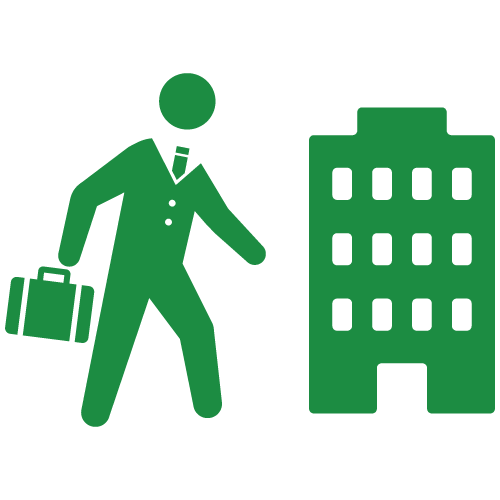
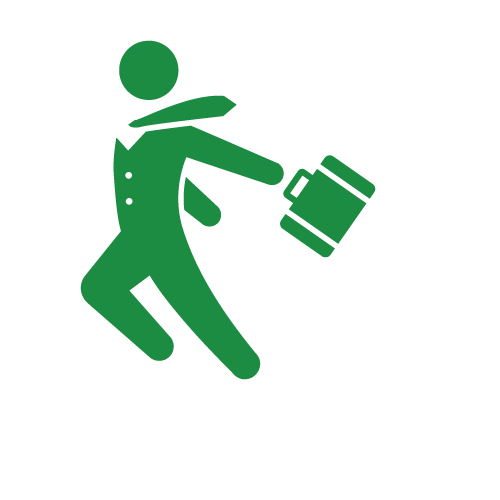
不要画像削除

diff --git a/index.html b/index.html
@@ -200,7 +200,7 @@ $(function(){
 		</div>
 		<div class="col-sm-12">
 			<div class="col-xs-4">
-				<img src="image/human2.png" class="fadeIn questionImg img-responsive">
+				<img src="image/question_human.png" class="fadeIn questionImg img-responsive">
 			</div>
 			<div class="col-xs-8">
 				<ul class="checkList text-left">
@@ -536,7 +536,7 @@ $(function(){
         <div class="stepSpaceTitle">
           <span>STEP6</span><br>
           参画<br>
-          <img src="image/step6_3.png" width="100px" height="100px">
+          <img src="image/step6.png" width="100px" height="100px">
         </div>
         <div class="stepSpaceDesc">
           当日もコンサルタントが必ず同行！
@@ -569,7 +569,7 @@ $(function(){
 		<div class="col-sm-6">
 			<div class="fadeIn tantoSection consultant1">
         <h6 style="padding-bottom:10px;border-bottom:1px solid #FFF;font-size:18pt;">橋本　有梨香　<span style="font-size:14pt;color:#a5a8fe;">- A.HASHIMOTO -</span></h6>
-				<img src="image/S__15974429.jpg" width="100%" height="300px">
+				<img src="/image/consal_01.jpg" width="100%" height="300px">
         <!-- 20170908 コメント画像に変更
         <div class="consulComent2 hide" style="font-size:0.7em;color:#98969A;background-color:#FFF;height:180px;margin-top:80px;margin-bottom:100px;padding:10px;border:1px solid #00ADE4;border-radius:5px;box-shadow: 5px 5px 10px black;">
           ITキャリアのスタートはエンジニア！その後営業職にキャリアチェンジし早2年。<br>
@@ -585,7 +585,7 @@ $(function(){
 		<div class="col-sm-6" style="margin-bottom:50px;">
       <div class="fadeIn tantoSection consultant2">
         <h6 style="padding-bottom:10px;border-bottom:1px solid #FFF;font-size:18pt;">大小田　敏志　<span style="font-size:14pt;color:#a5a8fe;">- S.OHKODA -</span></h6>
-        <img src="image/S__15974430.jpg" width="100%" height="300px">
+        <img src="image/consal_02.jpg" width="100%" height="300px">
         <!-- 20170908 コメント画像に変更
         <div class="consulComent1 hide" style="color:#98969A;background-color:#FFF;height:180px;margin-top:100px;margin-bottom:100px;padding:10px;border:1px solid #00ADE4;border-radius:5px;box-shadow: 5px 5px 10px black;">
           新卒で入社し既にIT業界歴は5年以上。<br>

diff --git a/style/common.css b/style/common.css
@@ -105,11 +105,11 @@ h5{
 	background-color:#03086A;
 }
 .caseContents{
-  background:url(/image/pexels-photo-51171.jpeg) 60% 0 no-repeat fixed;
+  background:url(/image/background_01.jpeg) 60% 0 no-repeat fixed;
   color: white;
 }
 .voiceContents{
-  background:url(/image/pexels-photo-51171.jpeg) 50% 0 no-repeat fixed;
+  background:url(/image/background_01.jpeg) 50% 0 no-repeat fixed;
   color: white;
 }
 .flowContents{
@@ -253,7 +253,7 @@ h5.voiceName{
 	line-height: 45px;
 	font-size:0.9em;
 	list-style: none;
-	background: url( /image/check2.png ) left no-repeat;
+	background: url( /image/check.png ) left no-repeat;
 	padding: 3px 0px 3px 38px;
 	/* 文字が真ん中に位置するように padding で上下の間隔を調整する。*/
 	/* 38pxの部分に「画像File」の横幅に隙間分のpxを足した数を入れる */
@@ -723,7 +723,7 @@ h1 small:last-child {
     height:25px;
     transform:scale(-1, 1);
     position: absolute;
-    background:url(/image/yajirushi04.png) no-repeat;    
+    background:url(/image/yajirushi.png) no-repeat;    
     background-size:contain;
     top: 35%;
     left: 100%;
@@ -734,7 +734,7 @@ h1 small:last-child {
     height:25px;
     position: absolute;
     transform:rotate(-90deg);
-    background:url(/image/yajirushi04.png) no-repeat;    
+    background:url(/image/yajirushi.png) no-repeat;    
     background-size:contain;
     top: 120%;
     left: 45%;
@@ -745,7 +745,7 @@ h1 small:last-child {
     height:25px;
     position: absolute;
     transform:rotate(-65deg) scale(-1, 1);
-    background:url(/image/yajirushi04.png) no-repeat;    
+    background:url(/image/yajirushi.png) no-repeat;    
     background-size:contain;
     top: 120%;
     left: 30%;
@@ -755,7 +755,7 @@ h1 small:last-child {
     width:25px;
     height:25px;
     position: absolute;
-    background:url(/image/yajirushi04.png) no-repeat;    
+    background:url(/image/yajirushi.png) no-repeat;    
     background-size:contain;
     top: 45%;
     left: 0%;
